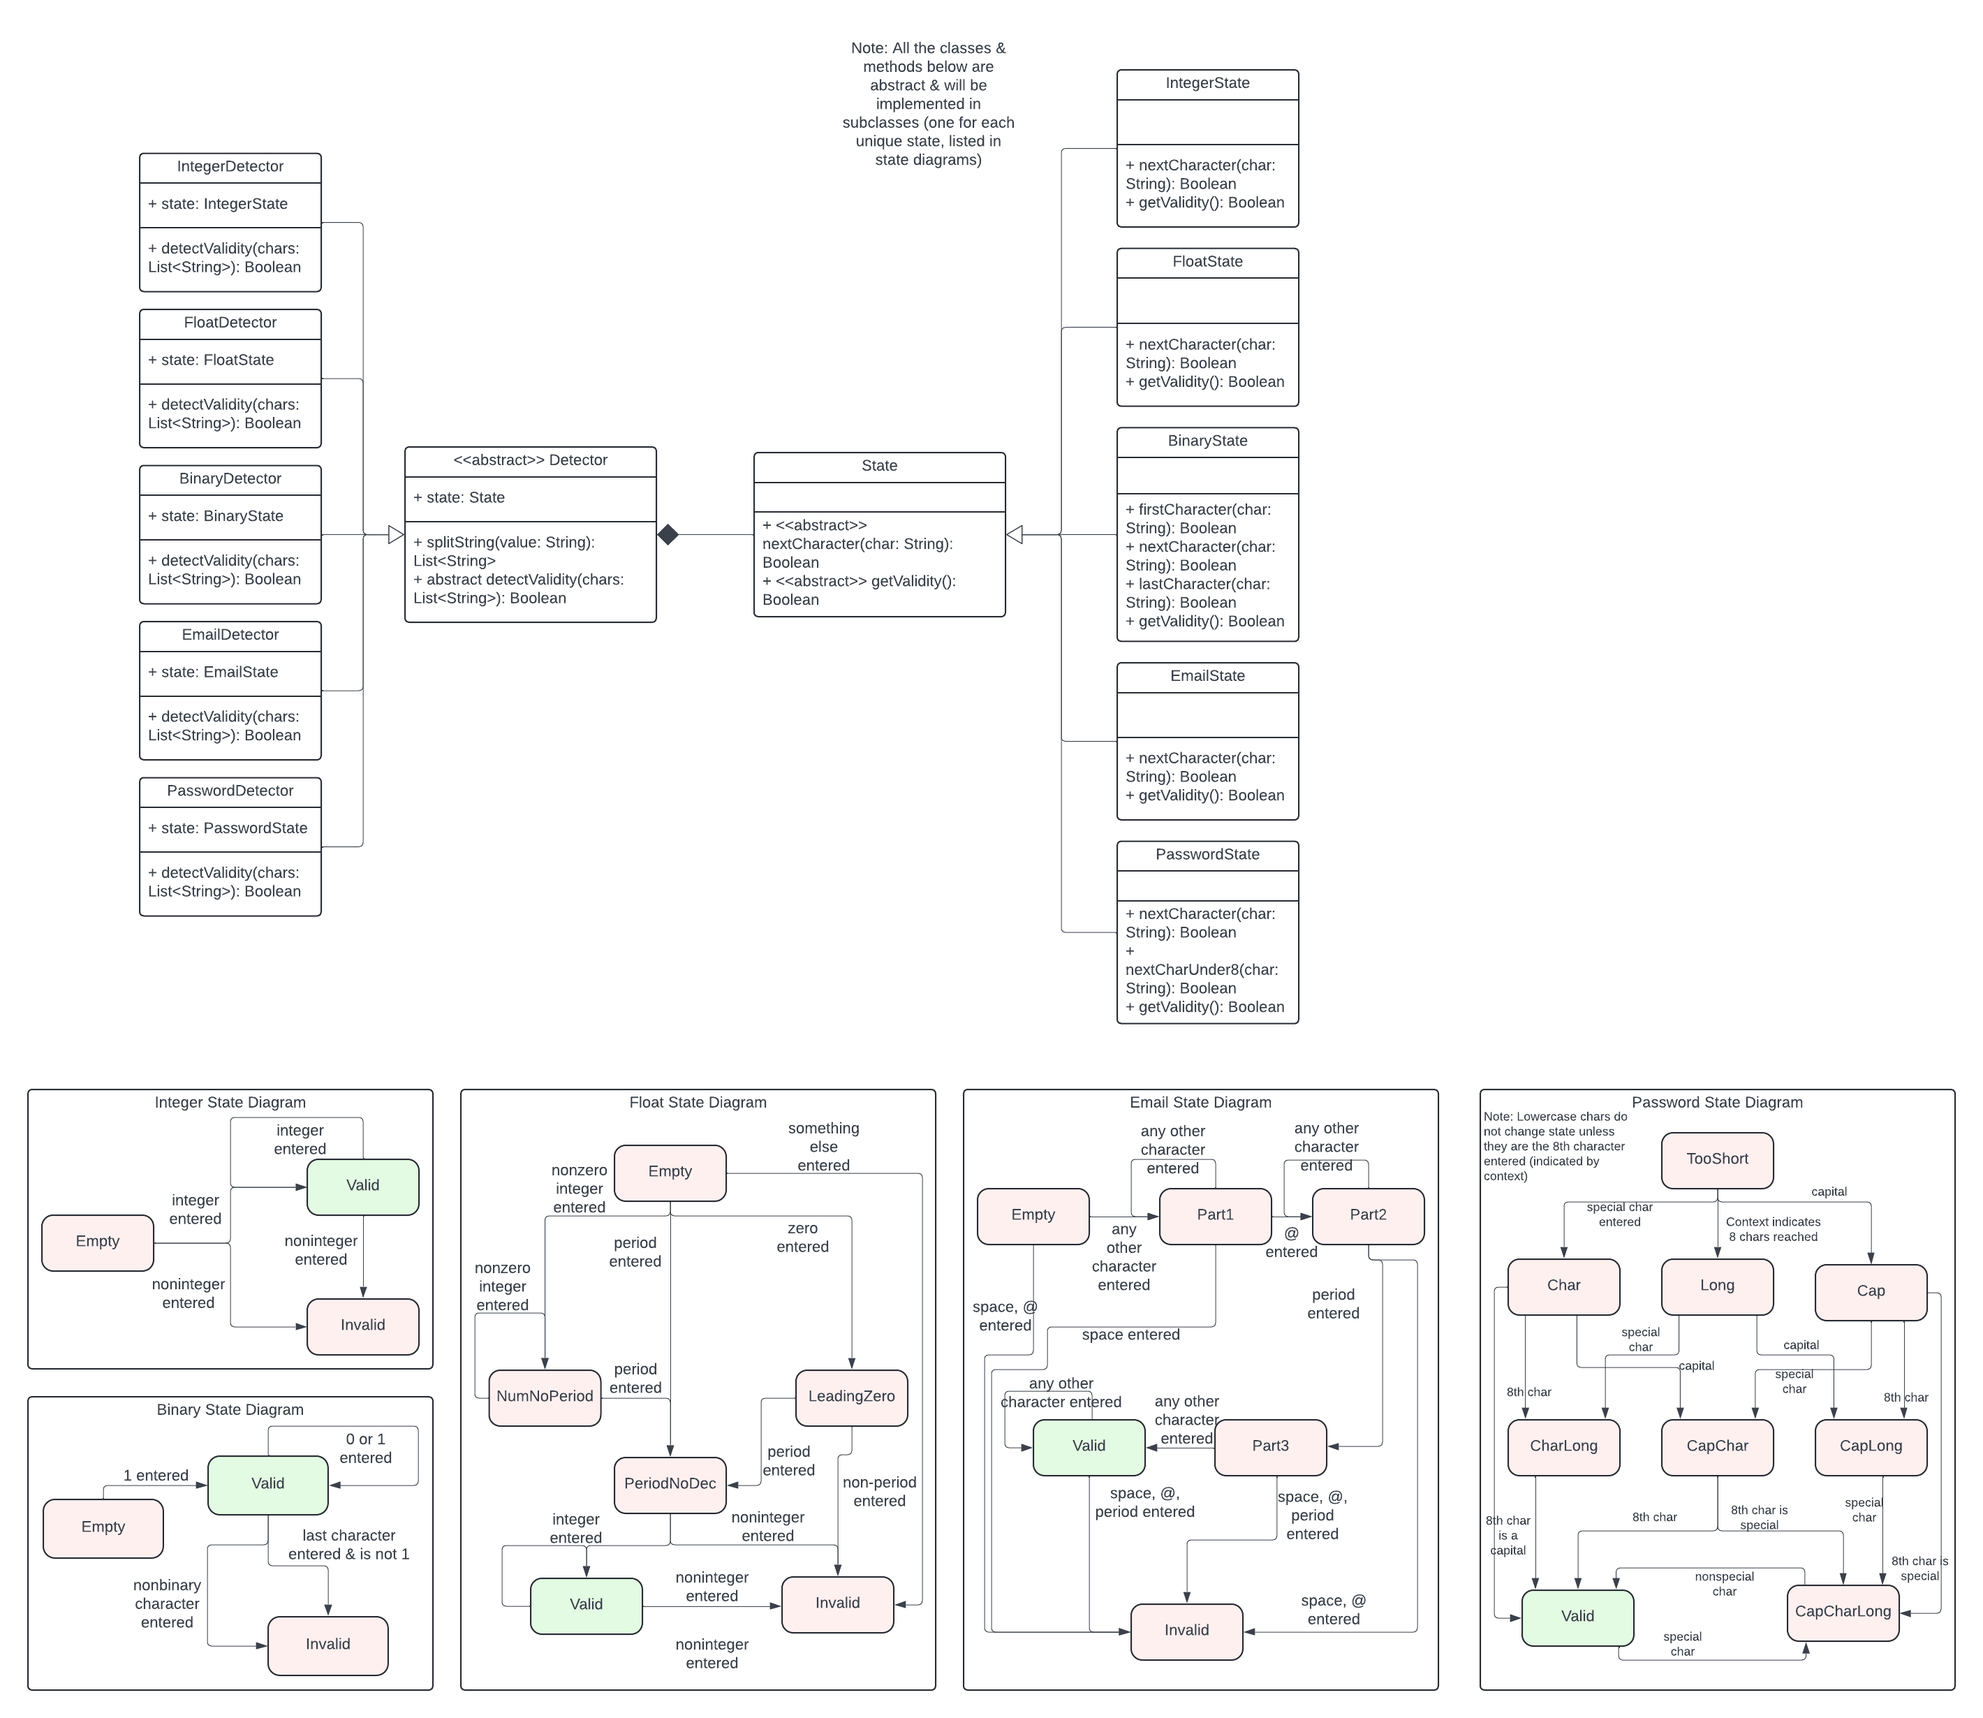
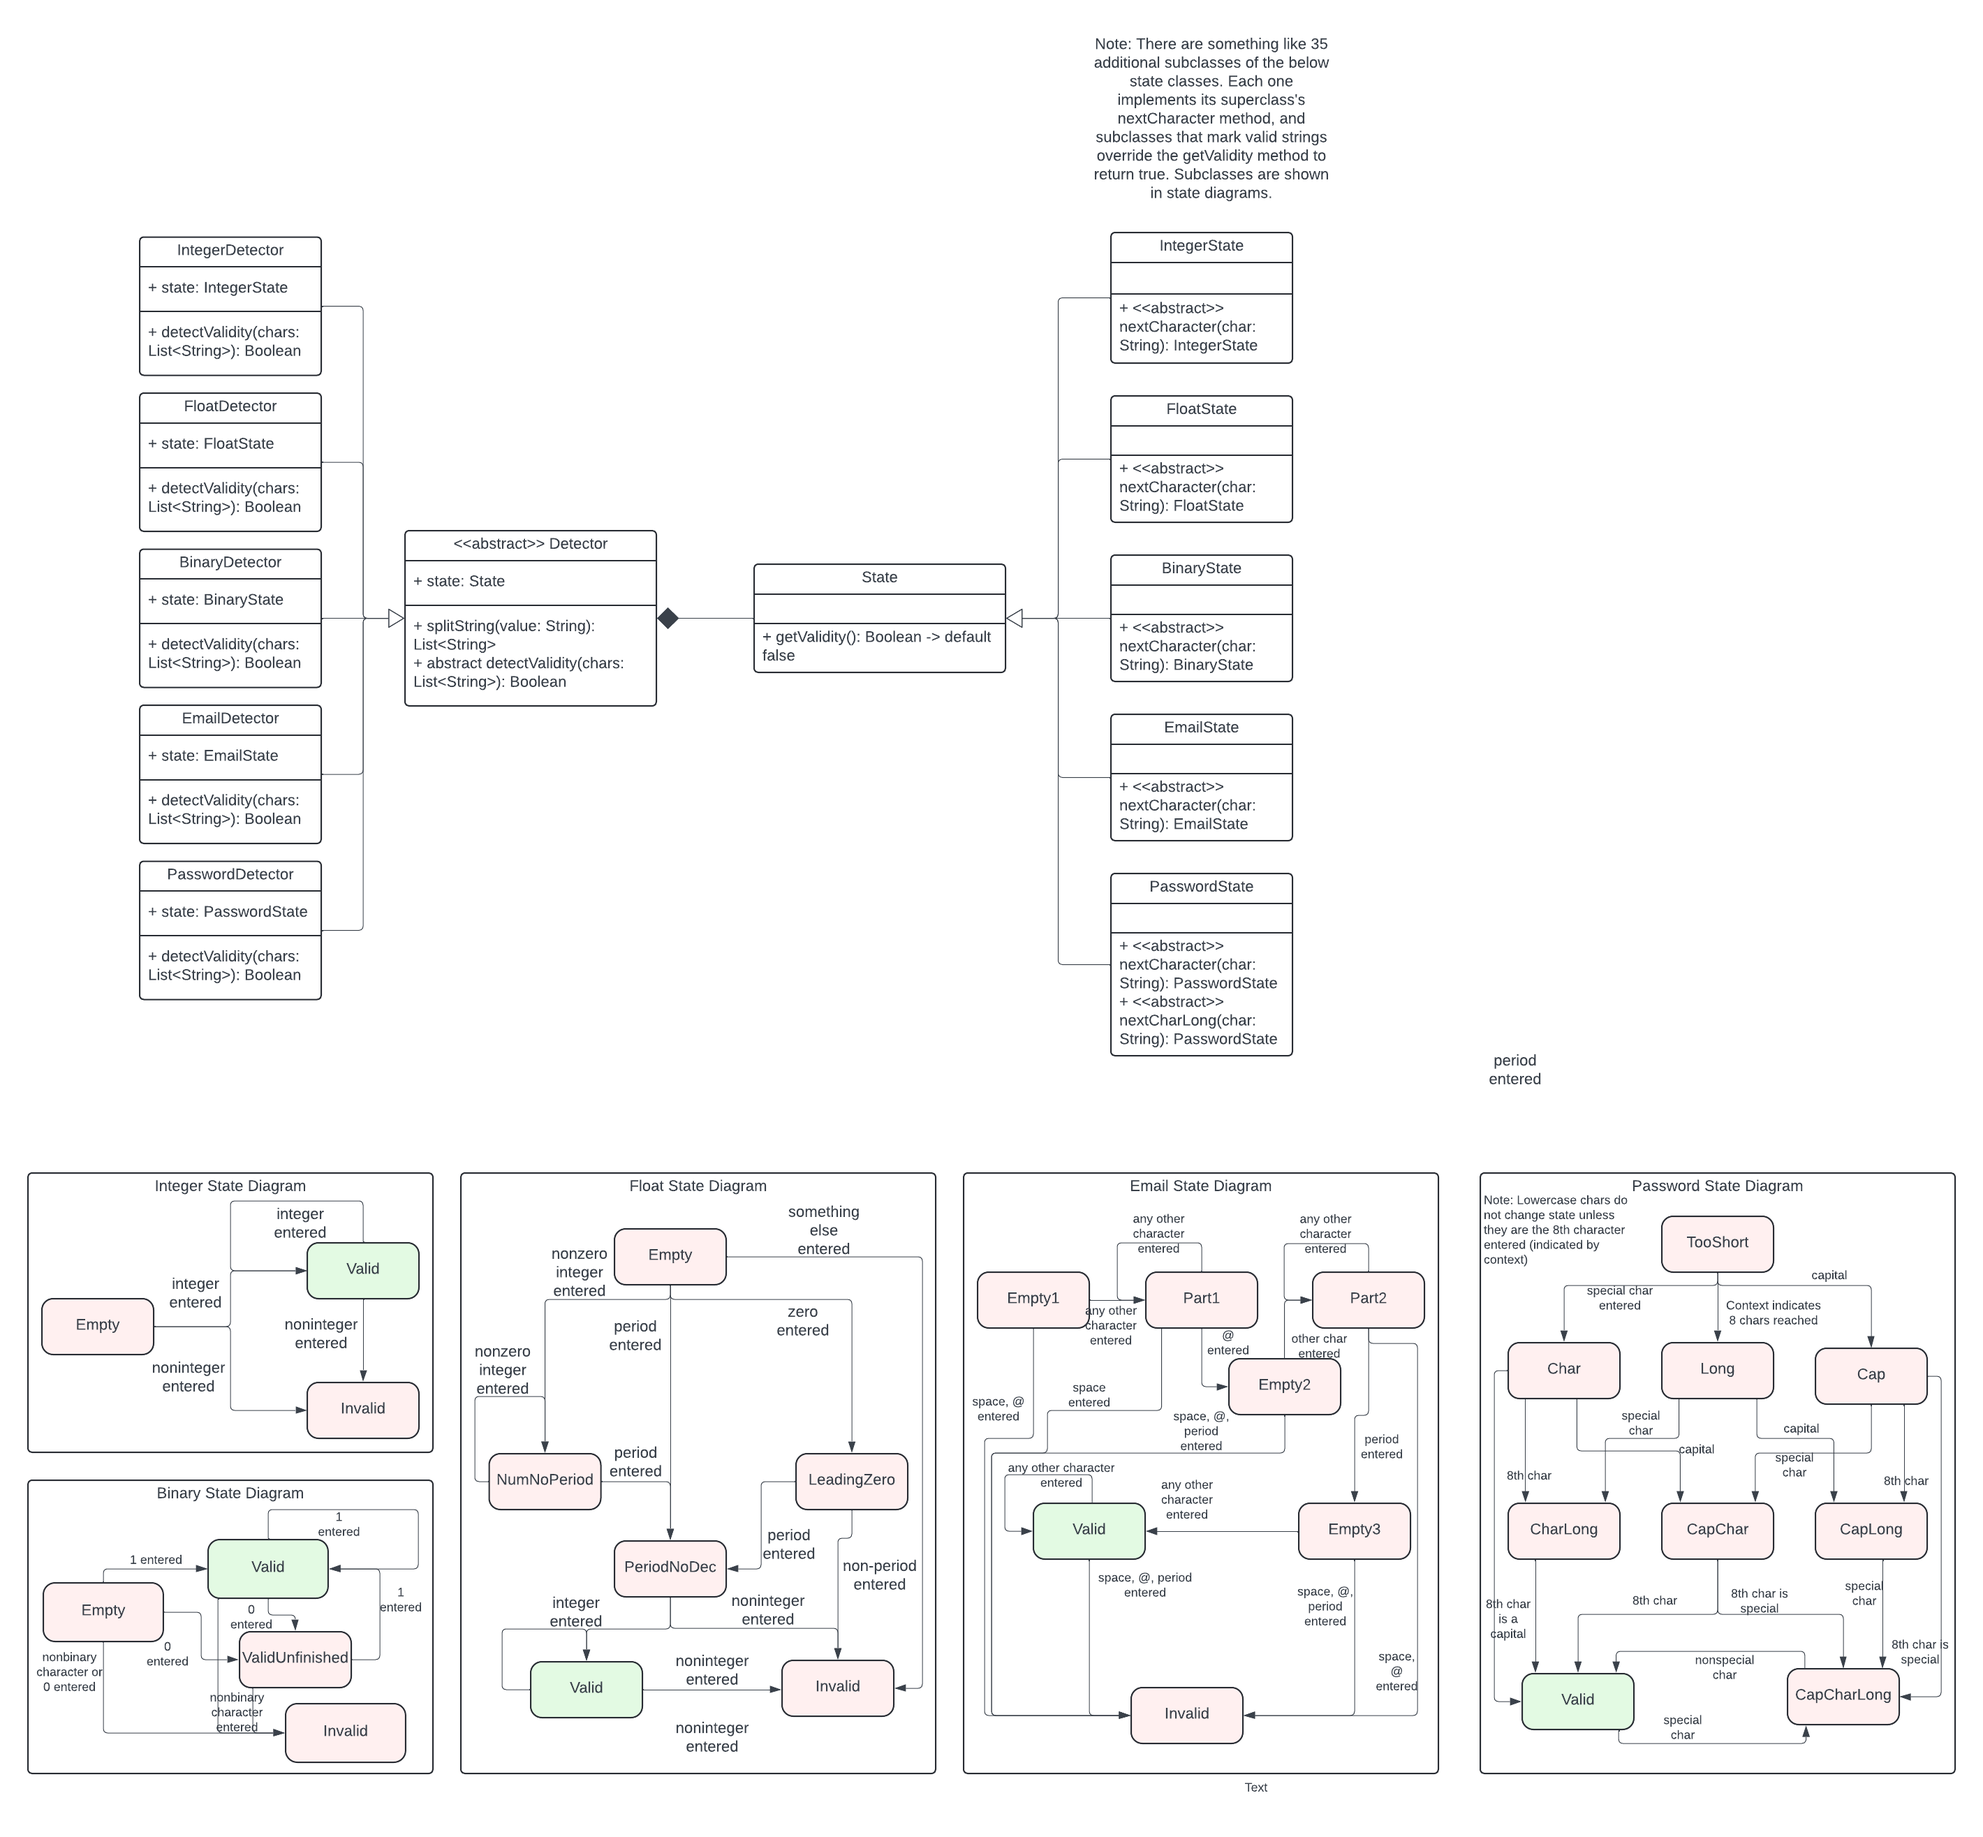
add binary detector + tests

diff --git a/src/test/kotlin/TestBinaryDetector.kt b/src/test/kotlin/TestBinaryDetector.kt
@@ -1,0 +1,22 @@
+import org.example.concreteDetectors.BinaryDetector
+import kotlin.test.*
+
+class TestBinaryDetector {
+    @Test
+    fun testBinaryDetector() {
+        val detector = BinaryDetector()
+        assertTrue { detector.detectValidity("1") }
+        assertTrue { detector.detectValidity("11") }
+        assertTrue { detector.detectValidity("111") }
+        assertTrue { detector.detectValidity("101") }
+        assertTrue { detector.detectValidity("111111") }
+        assertTrue { detector.detectValidity("10011010001") }
+
+        assertFalse { detector.detectValidity("01") }
+        assertFalse { detector.detectValidity("10") }
+        assertFalse { detector.detectValidity("1000010") }
+        assertFalse { detector.detectValidity("100a01") }
+        assertFalse { detector.detectValidity("") }
+        assertFalse { detector.detectValidity("AaBbCc") }
+    }
+}

diff --git a/src/main/kotlin/concreteDetectors/BinaryDetector.kt b/src/main/kotlin/concreteDetectors/BinaryDetector.kt
@@ -1,0 +1,16 @@
+package org.example.concreteDetectors
+
+import org.example.Detector
+import org.example.state.binaryState.*
+
+class BinaryDetector: Detector() {
+    var state: BinaryState = Empty()
+    override fun detectValidity(string: String): Boolean {
+        val chars = splitString(string)
+        state = Empty()
+        for (char in chars) {
+            state = state.nextCharacter(char)
+        }
+        return state.getValidity()
+    }
+}
